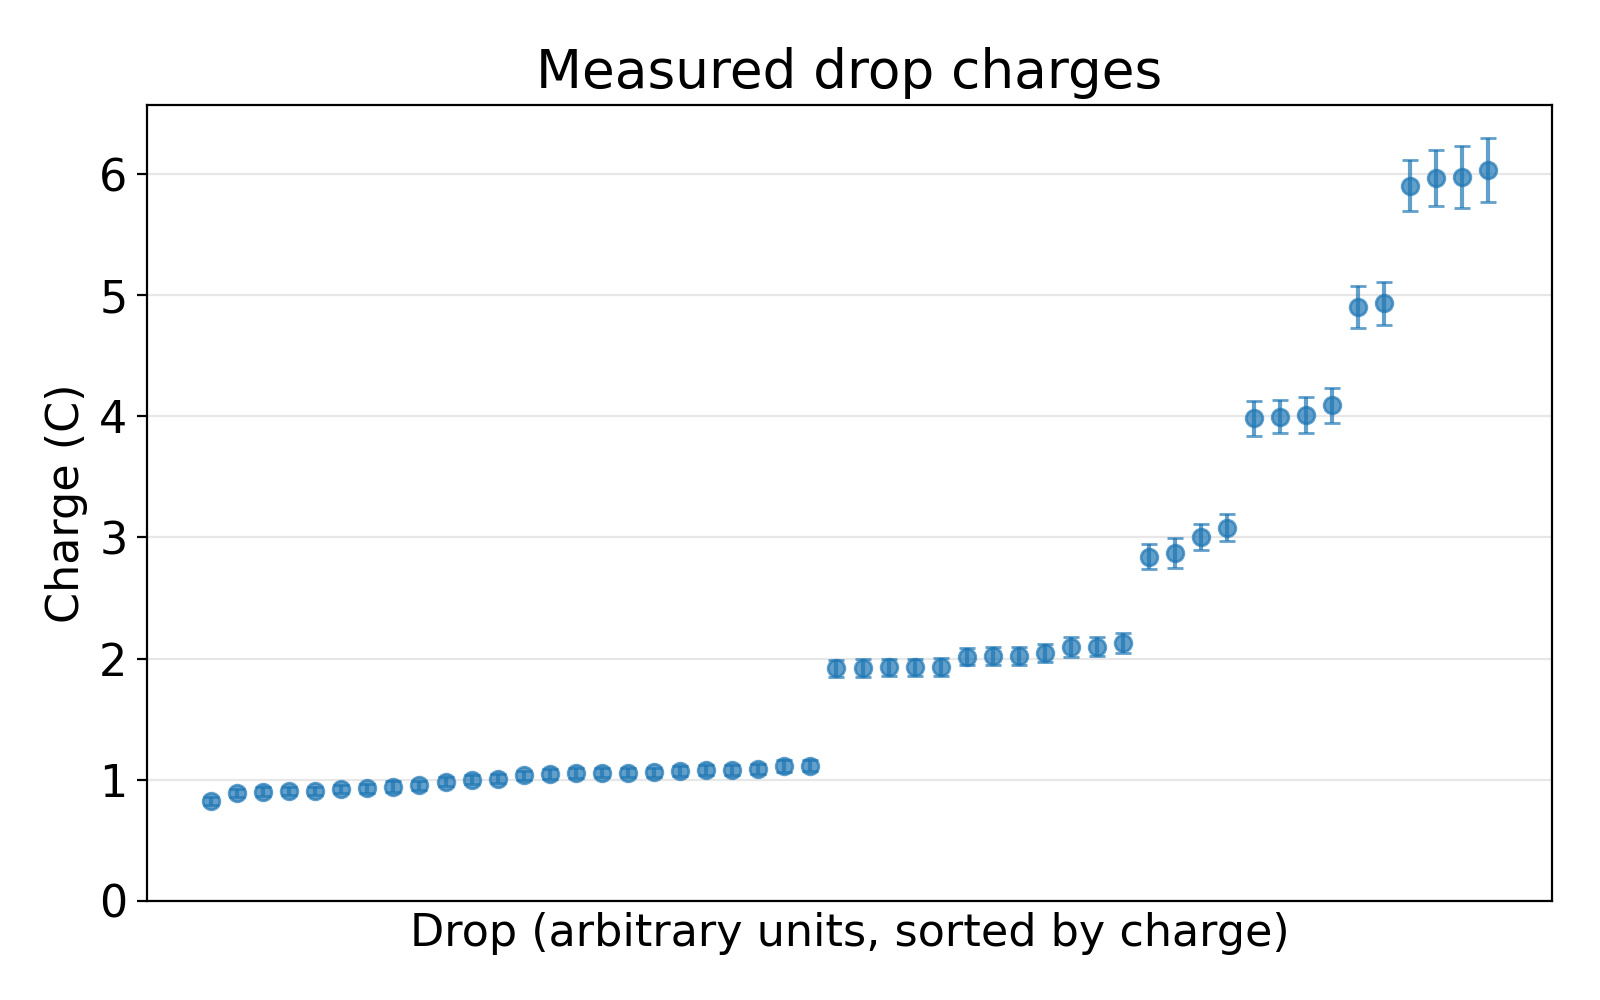
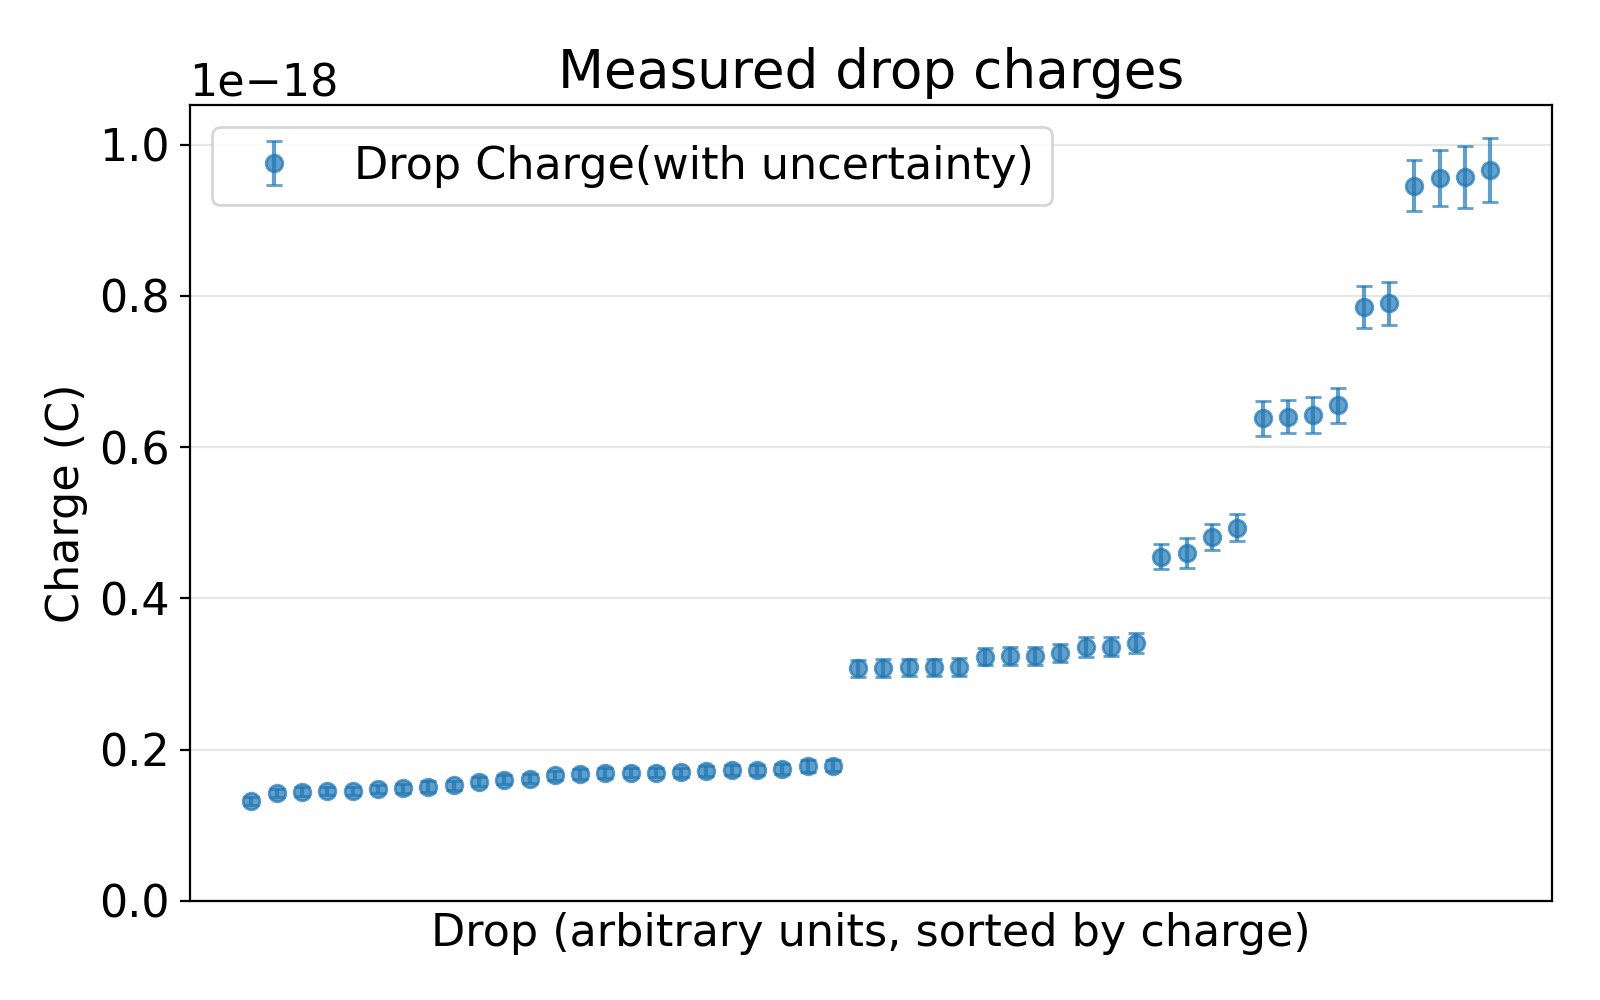
final touches to v2c plot

diff --git a/python/velocity2charge.py b/python/velocity2charge.py
@@ -98,8 +98,8 @@ def plot_charges(df, filename="../charges.png"):
  
     fig, ax = plt.subplots(figsize=(8, 5))
     #ax.errorbar(sorted_df.index, sorted_df["charge"], yerr=sorted_df["chargeUnc"],
-    ax.errorbar(sorted_df.index, sorted_df["charge"] / 1.602e-19, alpha=0.7, yerr=sorted_df["chargeUnc"] / 1.602e-19,
-                fmt="o", capsize=3)
+    ax.errorbar(sorted_df.index, sorted_df["charge"], alpha=0.7, yerr=sorted_df["chargeUnc"],
+                fmt="o", capsize=3, label="Drop Charge(with uncertainty)")
     ax.set_xlabel("Drop (arbitrary units, sorted by charge)")
     #ax.set_ylabel("Charge (C)")
     ax.set_ylabel("Charge (C)")
@@ -107,6 +107,7 @@ def plot_charges(df, filename="../charges.png"):
     ax.set_xticks([])
     ax.set_ylim(bottom=0)
     ax.grid(alpha=0.3)
+    plt.legend()
     fig.tight_layout()
 
     fig.savefig(filename, dpi=200)
